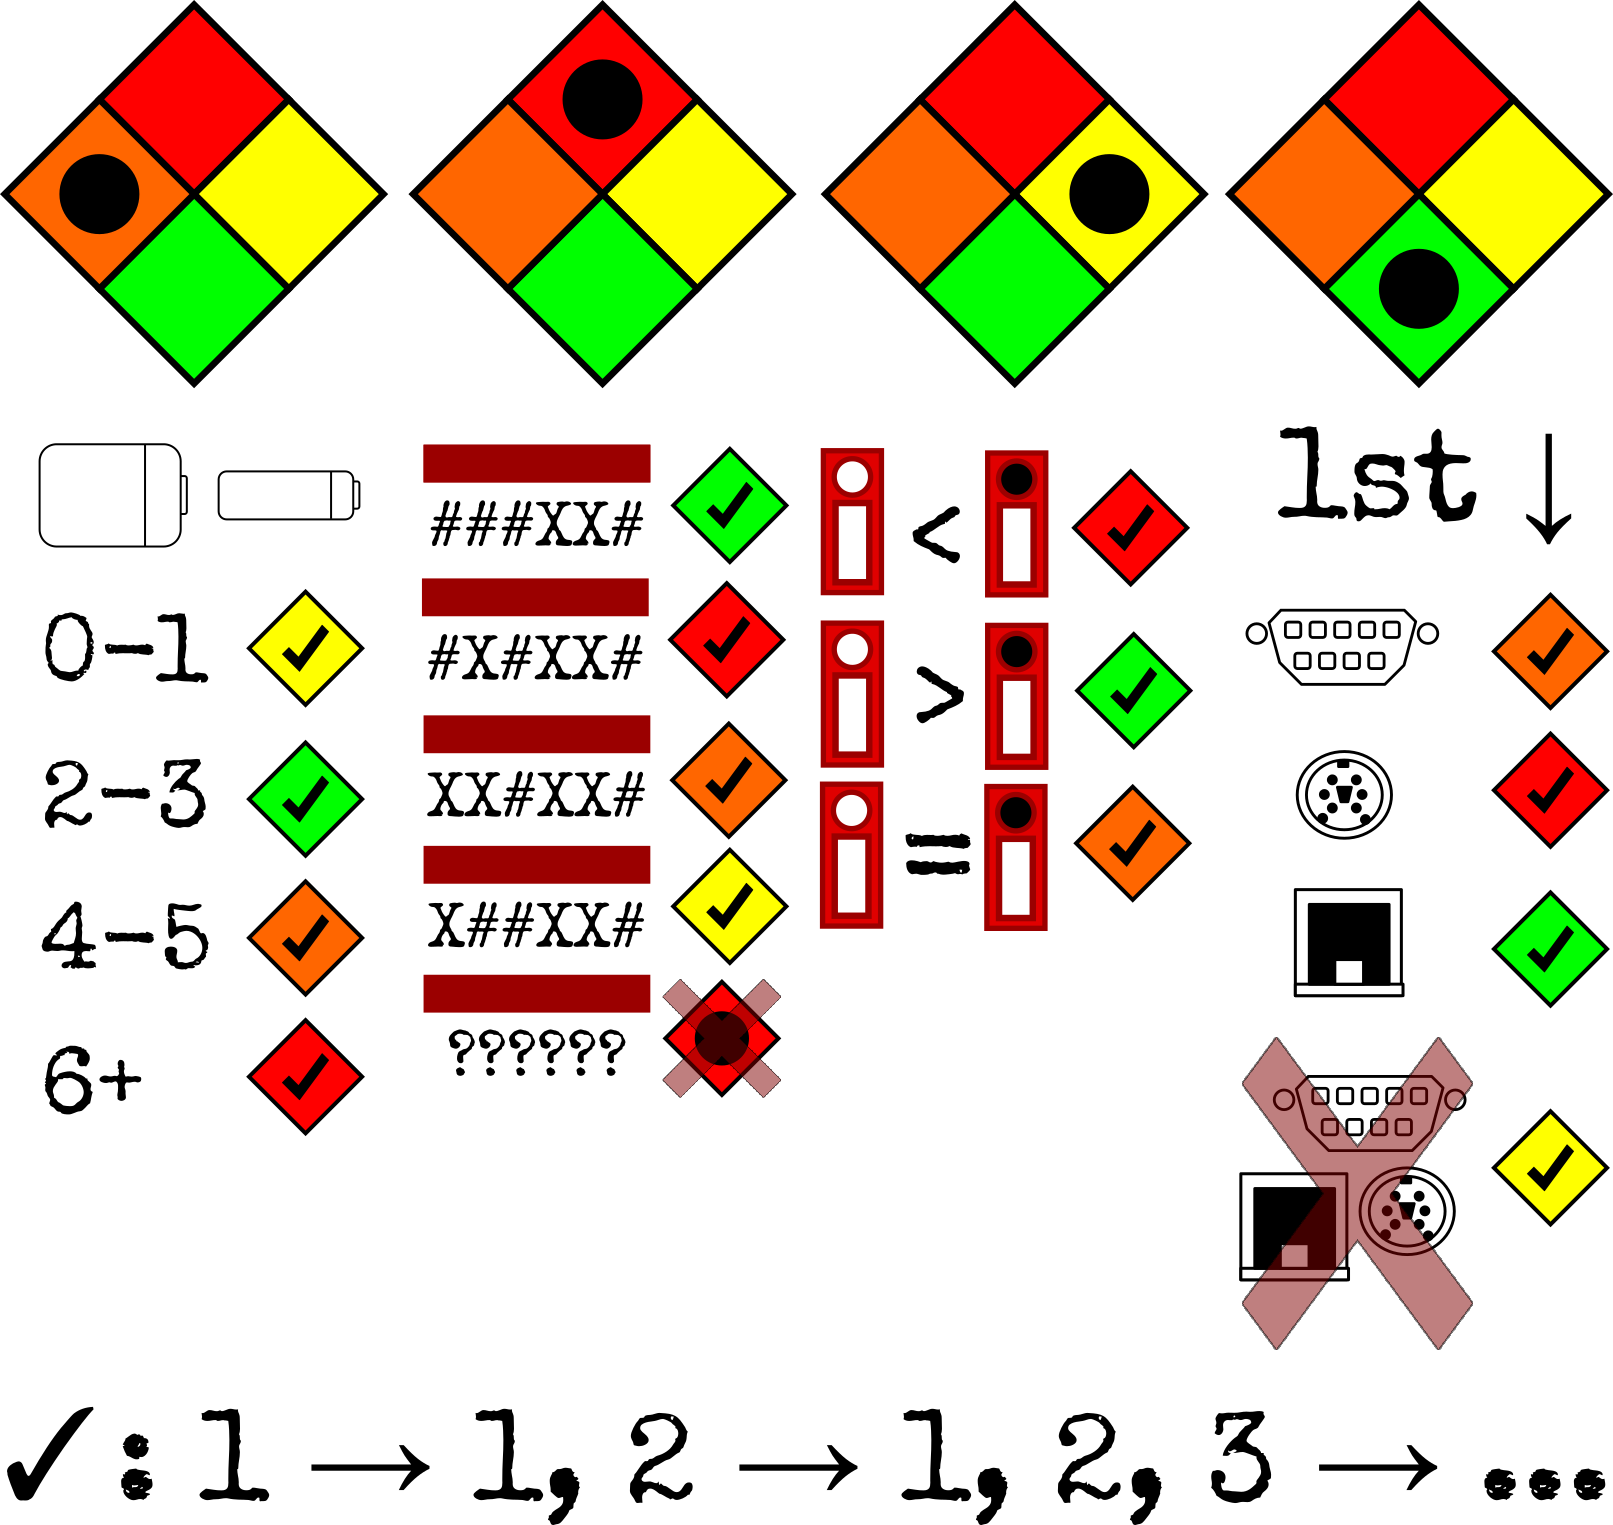
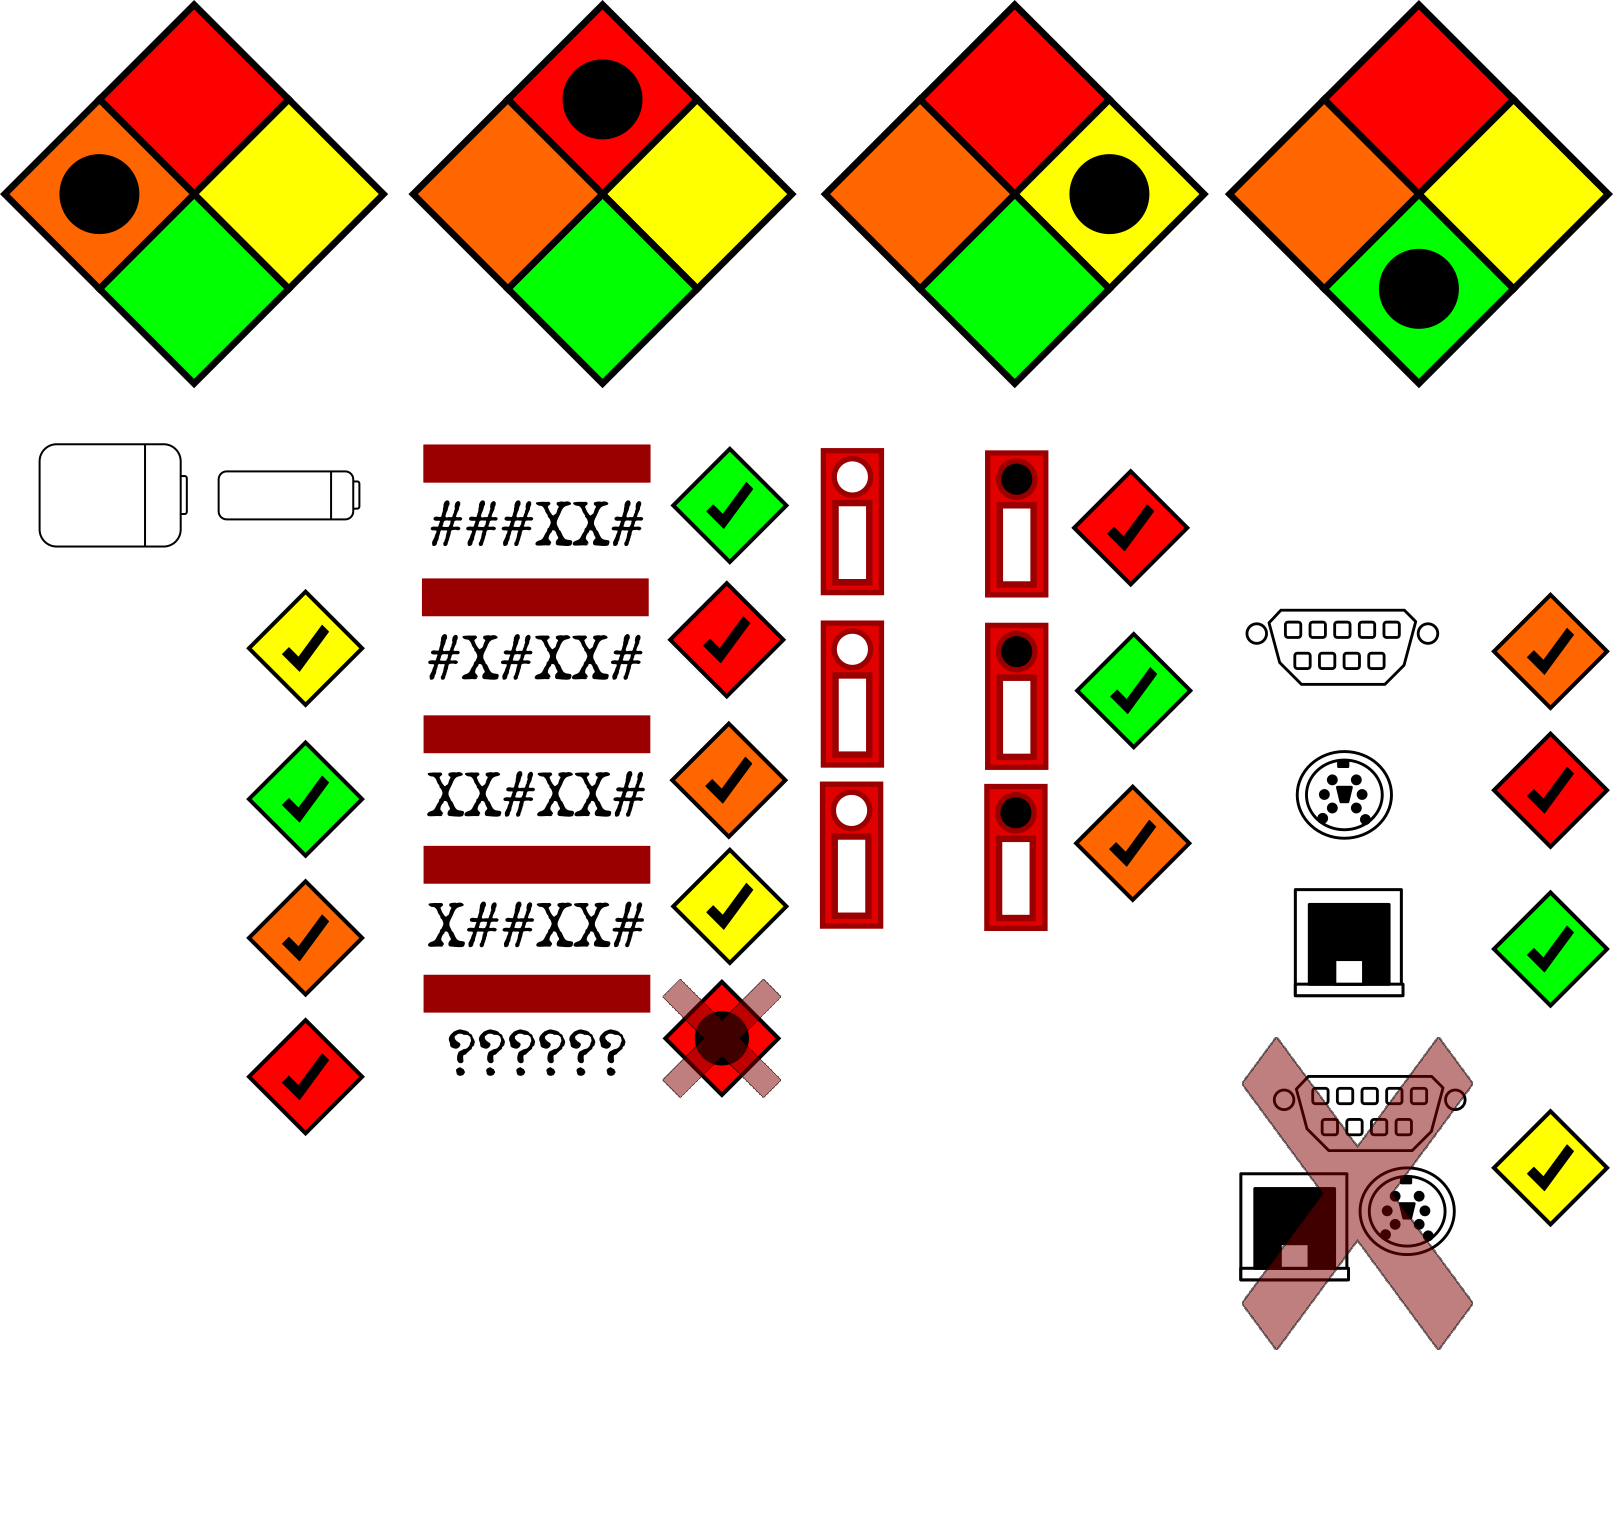
❖ dark mode

diff --git a/HTML/❖ translated (Español — ❖) (MásQuéÉlite).html b/HTML/❖ translated (Español — ❖) (MásQuéÉlite).html
@@ -8,6 +8,18 @@
     <link rel="stylesheet" type="text/css" href="css/normalize.css">
     <link rel="stylesheet" type="text/css" href="css/main.css">
     <script src="js/ktane-utils.js"></script>
+    <style>
+        .img-holder {
+            margin: 0 auto;
+            position: relative;
+            width: 85%;
+        }
+        .img-holder svg, .img-holder img {
+            position: absolute;
+            width: 100%;
+        }
+        .dark svg text { fill: #DDD; }
+    </style>
 </head>
 <body>
     <div class="section">
@@ -20,7 +32,23 @@
                 <img src="img/Component/Nonverbal%20Simon.svg" class="diagram">
                 <h2>En caso de ❖</h2>
                 <p class="flavour-text" style="margin-bottom: 20%">❖</p>
-                <img style="display: block; margin-left: auto; margin-right: auto; width: 85%" src="img/NonverbalSimon/Procedure.png" alt="Aquí debería aparecer una imagen de cómo desactivar el módulo.">
+                <div class="img-holder">
+                    <img class="centered-img" src="img/NonverbalSimon/Procedure.png" alt="Aquí debería aparecer una imagen de cómo desactivar el módulo.">
+                    <svg viewBox="0 0 571 540" xmlns="http://www.w3.org/2000/svg" text-anchor="middle" font-size="46">
+                        <text x="548" y="182" font-size="67">↓</text>
+                        <text x="489" y="182">1st</text>
+                        <text x="332" y="206">&lt;</text>
+                        <text x="332" y="264">&gt;</text>
+                        <text x="332" y="320">=</text>
+                        <text x="45" y="245" font-size="35">0–1</text>
+                        <text x="45" y="295" font-size="35">2–3</text>
+                        <text x="45" y="345" font-size="35">4–5</text>
+                        <text x="45" y="395" font-size="35">6+</text>
+                        <text x="15" y="536">🗸</text>
+                        <text x="310" y="530" font-size="43">: 1 &nbsp;&nbsp;&nbsp;&nbsp; 1, 2 &nbsp;&nbsp;&nbsp;&nbsp; 1, 2, 3 &nbsp;&nbsp;&nbsp;&nbsp; ...</text>
+                        <text x="310" y="530" font-size="64">→ &nbsp;&nbsp;&nbsp;&nbsp; → &nbsp;&nbsp;&nbsp;&nbsp;&nbsp;&nbsp;&nbsp; →</text>
+                    </svg>
+                </div>
             </div>
            <div class="page-footer relative-footer">Página 1 de 1</div>
         </div>

diff --git a/HTML/❖.html b/HTML/❖.html
@@ -8,6 +8,18 @@
     <link rel="stylesheet" type="text/css" href="css/normalize.css">
     <link rel="stylesheet" type="text/css" href="css/main.css">
     <script src="js/ktane-utils.js"></script>
+    <style>
+        .img-holder {
+            margin: 0 auto;
+            position: relative;
+            width: 85%;
+        }
+        .img-holder svg, .img-holder img {
+            position: absolute;
+            width: 100%;
+        }
+        .dark svg text { fill: #DDD; }
+    </style>
 </head>
 <body>
     <div class="section">
@@ -20,7 +32,23 @@
                 <img src="img/Component/Nonverbal%20Simon.svg" class="diagram">
                 <h2>On The Subject Of ❖</h2>
                 <p class="flavour-text" style="margin-bottom: 20%">❖</p>
-                <img style="display: block; margin-left: auto; margin-right: auto;" src="img/NonverbalSimon/Procedure.png" width="85%" alt="A picture of how to disarm this module would be here.">
+                <div class="img-holder">
+                    <img class="centered-img" src="img/NonverbalSimon/Procedure.png" alt="A picture of how to disarm this module would be here.">
+                    <svg viewBox="0 0 571 540" xmlns="http://www.w3.org/2000/svg" text-anchor="middle" font-size="46">
+                        <text x="548" y="182" font-size="67">↓</text>
+                        <text x="489" y="182">1st</text>
+                        <text x="332" y="206">&lt;</text>
+                        <text x="332" y="264">&gt;</text>
+                        <text x="332" y="320">=</text>
+                        <text x="45" y="245" font-size="35">0–1</text>
+                        <text x="45" y="295" font-size="35">2–3</text>
+                        <text x="45" y="345" font-size="35">4–5</text>
+                        <text x="45" y="395" font-size="35">6+</text>
+                        <text x="15" y="536">🗸</text>
+                        <text x="310" y="530" font-size="43">: 1 &nbsp;&nbsp;&nbsp;&nbsp; 1, 2 &nbsp;&nbsp;&nbsp;&nbsp; 1, 2, 3 &nbsp;&nbsp;&nbsp;&nbsp; ...</text>
+                        <text x="310" y="530" font-size="64">→ &nbsp;&nbsp;&nbsp;&nbsp; → &nbsp;&nbsp;&nbsp;&nbsp;&nbsp;&nbsp;&nbsp; →</text>
+                    </svg>
+                </div>
             </div>
            <div class="page-footer relative-footer">Page 1 of 1</div>
         </div>

diff --git a/HTML/❖ colorblind.html b/HTML/❖ colorblind.html
@@ -9,9 +9,16 @@
     <link rel="stylesheet" type="text/css" href="css/main.css">
     <script src="js/ktane-utils.js"></script>
     <style>
-        table {
-            margin: 1em auto;
+        .img-holder {
+            margin: 0 auto;
+            position: relative;
+            width: 85%;
         }
+        .img-holder svg, .img-holder img {
+            position: absolute;
+            width: 100%;
+        }
+        .dark svg text { fill: #DDD; }
     </style>
 </head>
 <body>
@@ -25,7 +32,23 @@
                 <img src="img/Component/Nonverbal%20Simon.svg" class="diagram">
                 <h2>On The Subject Of ❖</h2>
                 <p class="flavour-text" style="margin-bottom: 20%">❖</p>
-                <img style="display: block; margin-left: auto; margin-right: auto;" src="img/NonverbalSimon/ProcedureColorBlind.png" width="85%" alt="A picture of how to disarm this module would be here.">
+                <div class="img-holder">
+                    <img class="centered-img" src="img/NonverbalSimon/ProcedureColorBlind.png" alt="A picture of how to disarm this module would be here.">
+                    <svg viewBox="0 -200 571 739" xmlns="http://www.w3.org/2000/svg" text-anchor="middle" font-size="46">
+                        <text x="548" y="182" font-size="67">↓</text>
+                        <text x="489" y="182">1st</text>
+                        <text x="332" y="206">&lt;</text>
+                        <text x="332" y="264">&gt;</text>
+                        <text x="332" y="320">=</text>
+                        <text x="45" y="245" font-size="35">0–1</text>
+                        <text x="45" y="295" font-size="35">2–3</text>
+                        <text x="45" y="345" font-size="35">4–5</text>
+                        <text x="45" y="395" font-size="35">6+</text>
+                        <text x="15" y="536">🗸</text>
+                        <text x="310" y="530" font-size="43">: 1 &nbsp;&nbsp;&nbsp;&nbsp; 1, 2 &nbsp;&nbsp;&nbsp;&nbsp; 1, 2, 3 &nbsp;&nbsp;&nbsp;&nbsp; ...</text>
+                        <text x="310" y="530" font-size="64">→ &nbsp;&nbsp;&nbsp;&nbsp; → &nbsp;&nbsp;&nbsp;&nbsp;&nbsp;&nbsp;&nbsp; →</text>
+                    </svg>
+                </div>
             </div>
            <div class="page-footer relative-footer">Page 1 of 1</div>
         </div>
